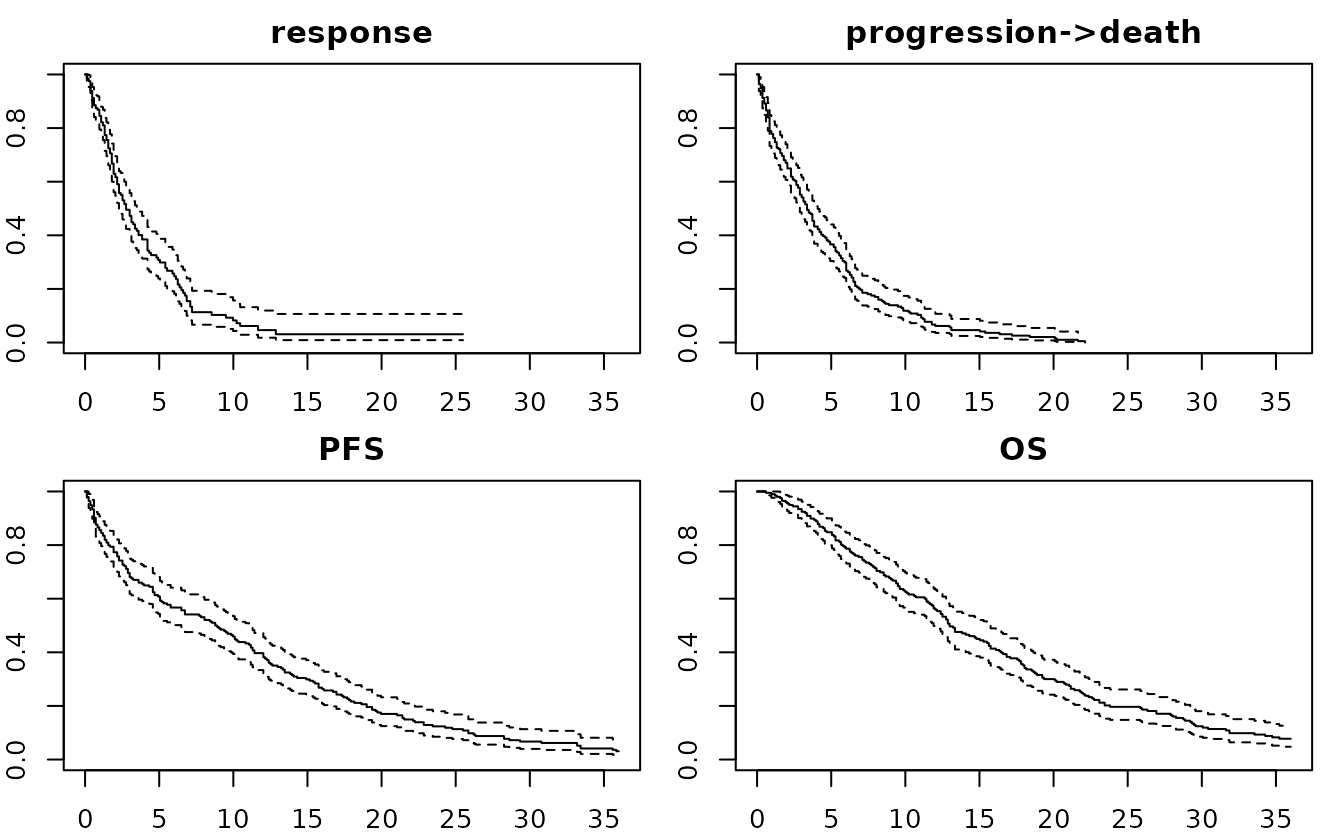
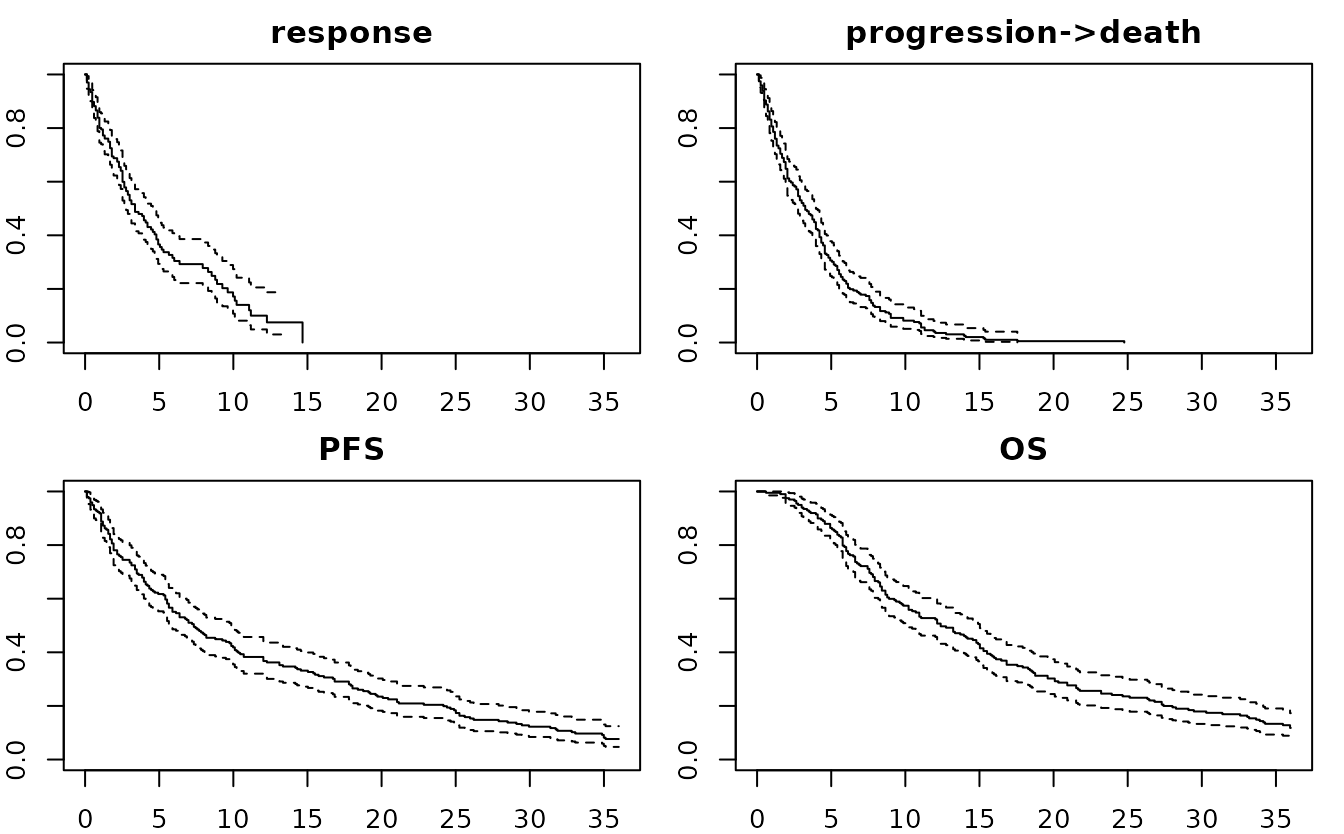
Deploying to gh-pages from @ Boehringer-Ingelheim/msmsimr@18a34706cb3151c5368cff20ae44e86f79afe270 🚀

diff --git a/articles/get-started.html b/articles/get-started.html
@@ -78,8 +78,8 @@
 <span></span>
 <span><span class="kw"><a href="https://rdrr.io/r/base/library.html" class="external-link">library</a></span><span class="op">(</span><span class="va">msmsimr</span><span class="op">)</span></span></code></pre></div>
 <p>Work In Progress!</p>
-<div id="htmlwidget-0bf49256549ca2828ade" style="width:700px;height:200px;" class="nomnoml html-widget "></div>
-<script type="application/json" data-for="htmlwidget-0bf49256549ca2828ade">{"x":{"code":"\n#fill: #FEFEFF\n#lineWidth: 1\n#zoom: 4\n#direction: right\n\n[<state>start]\n[start]-[<note>1]\n[1]->[<state>response]\n[start]-[<note>2]\n[2]->[<state>progression]\n[response]-[<note>3]\n[3]->[progression]\n[progression]-[<note>4]\n[4]->[<state>death]","svg":false,"png":null},"evals":[],"jsHooks":[]}</script><p>This model contains all states relevant to response rate, PFS, OS
+<div id="htmlwidget-364f495f89a88cb6bdfe" style="width:700px;height:200px;" class="nomnoml html-widget "></div>
+<script type="application/json" data-for="htmlwidget-364f495f89a88cb6bdfe">{"x":{"code":"\n#fill: #FEFEFF\n#lineWidth: 1\n#zoom: 4\n#direction: right\n\n[<state>start]\n[start]-[<note>1]\n[1]->[<state>response]\n[start]-[<note>2]\n[2]->[<state>progression]\n[response]-[<note>3]\n[3]->[progression]\n[progression]-[<note>4]\n[4]->[<state>death]","svg":false,"png":null},"evals":[],"jsHooks":[]}</script><p>This model contains all states relevant to response rate, PFS, OS
 (and duration of response). Assuming a low rate of direct transitions
 from start/response to death, the model does not include direct
 transitions from start/response to death to reduce complexity.</p>
@@ -117,20 +117,20 @@ heuristically.</p>
 <div class="sourceCode" id="cb3"><pre class="downlit sourceCode r">
 <code class="sourceCode R"><span><span class="va">tbl_data</span> <span class="op">&lt;-</span> <span class="fu"><a href="https://rdrr.io/r/stats/simulate.html" class="external-link">simulate</a></span><span class="op">(</span><span class="va">msm</span>, nsim <span class="op">=</span> <span class="fl">200</span><span class="op">)</span></span>
 <span><span class="va">tbl_data</span></span>
-<span><span class="co">#&gt; <span style="color: #949494;"># A tibble: 521 × 8</span></span></span>
+<span><span class="co">#&gt; <span style="color: #949494;"># A tibble: 513 × 8</span></span></span>
 <span><span class="co">#&gt;    id    Tstart  Tstop duration from        to          status trans</span></span>
 <span><span class="co">#&gt;    <span style="color: #949494; font-style: italic;">&lt;fct&gt;</span>  <span style="color: #949494; font-style: italic;">&lt;dbl&gt;</span>  <span style="color: #949494; font-style: italic;">&lt;dbl&gt;</span>    <span style="color: #949494; font-style: italic;">&lt;dbl&gt;</span> <span style="color: #949494; font-style: italic;">&lt;fct&gt;</span>       <span style="color: #949494; font-style: italic;">&lt;fct&gt;</span>        <span style="color: #949494; font-style: italic;">&lt;dbl&gt;</span> <span style="color: #949494; font-style: italic;">&lt;dbl&gt;</span></span></span>
-<span><span class="co">#&gt; <span style="color: #BCBCBC;"> 1</span> 2      0      0.120    0.120 start       progression      1     2</span></span>
-<span><span class="co">#&gt; <span style="color: #BCBCBC;"> 2</span> 2      0.120  0.601    0.481 progression death            1     4</span></span>
-<span><span class="co">#&gt; <span style="color: #BCBCBC;"> 3</span> 4      0      6.25     6.25  start       response         1     1</span></span>
-<span><span class="co">#&gt; <span style="color: #BCBCBC;"> 4</span> 4      6.25  28.3     22.0   response    progression      1     3</span></span>
-<span><span class="co">#&gt; <span style="color: #BCBCBC;"> 5</span> 4     28.3   29.2      0.962 progression death            1     4</span></span>
-<span><span class="co">#&gt; <span style="color: #BCBCBC;"> 6</span> 6      0      3.13     3.13  start       response         1     1</span></span>
-<span><span class="co">#&gt; <span style="color: #BCBCBC;"> 7</span> 6      3.13  17.0     13.8   response    progression      1     3</span></span>
-<span><span class="co">#&gt; <span style="color: #BCBCBC;"> 8</span> 6     17.0   20.8      3.85  progression death            1     4</span></span>
-<span><span class="co">#&gt; <span style="color: #BCBCBC;"> 9</span> 8      0      1.68     1.68  start       response         1     1</span></span>
-<span><span class="co">#&gt; <span style="color: #BCBCBC;">10</span> 8      1.68   6.73     5.05  response    progression      1     3</span></span>
-<span><span class="co">#&gt; <span style="color: #949494;"># … with 511 more rows</span></span></span></code></pre></div>
+<span><span class="co">#&gt; <span style="color: #BCBCBC;"> 1</span> 2      0      3.97     3.97  start       response         1     1</span></span>
+<span><span class="co">#&gt; <span style="color: #BCBCBC;"> 2</span> 2      3.97  13.1      9.14  response    progression      1     3</span></span>
+<span><span class="co">#&gt; <span style="color: #BCBCBC;"> 3</span> 2     13.1   16.0      2.89  progression death            1     4</span></span>
+<span><span class="co">#&gt; <span style="color: #BCBCBC;"> 4</span> 4      0      0.962    0.962 start       response         1     1</span></span>
+<span><span class="co">#&gt; <span style="color: #BCBCBC;"> 5</span> 4      0.962 24.2     23.2   response    progression      1     3</span></span>
+<span><span class="co">#&gt; <span style="color: #BCBCBC;"> 6</span> 4     24.2   36.2     12.0   progression death            1     4</span></span>
+<span><span class="co">#&gt; <span style="color: #BCBCBC;"> 7</span> 6      0      2.89     2.89  start       response         1     1</span></span>
+<span><span class="co">#&gt; <span style="color: #BCBCBC;"> 8</span> 6      2.89  25.6     22.7   response    progression      1     3</span></span>
+<span><span class="co">#&gt; <span style="color: #BCBCBC;"> 9</span> 6     25.6   27.3      1.68  progression death            1     4</span></span>
+<span><span class="co">#&gt; <span style="color: #BCBCBC;">10</span> 8      0     13.3     13.3   start       progression      1     2</span></span>
+<span><span class="co">#&gt; <span style="color: #949494;"># … with 503 more rows</span></span></span></code></pre></div>
 <p>These can be used to estimate time-to-first event for single or
 compound endpoints.</p>
 <div class="sourceCode" id="cb4"><pre class="downlit sourceCode r">
@@ -153,7 +153,7 @@ compound endpoints.</p>
 <div class="sourceCode" id="cb5"><pre class="downlit sourceCode r">
 <code class="sourceCode R"><span><span class="fu"><a href="../reference/next_state_probabilities.html">next_state_probabilities</a></span><span class="op">(</span><span class="va">msm</span>, <span class="va">tbl_data</span>, as_matrix <span class="op">=</span> <span class="cn">TRUE</span><span class="op">)</span></span>
 <span><span class="co">#&gt;             start response progression death</span></span>
-<span><span class="co">#&gt; start           0    0.665       0.335     0</span></span>
+<span><span class="co">#&gt; start           0    0.605       0.395     0</span></span>
 <span><span class="co">#&gt; response        0    0.000       1.000     0</span></span>
 <span><span class="co">#&gt; progression     0    0.000       0.000     1</span></span>
 <span><span class="co">#&gt; death           0    0.000       0.000     0</span></span></code></pre></div>
@@ -242,9 +242,9 @@ t-distributed.</p>
 <div class="sourceCode" id="cb10"><pre class="downlit sourceCode r">
 <code class="sourceCode R"><span><span class="va">lls</span> <span class="op">&lt;-</span> <span class="fu">purrr</span><span class="fu">::</span><span class="fu"><a href="https://purrr.tidyverse.org/reference/map.html" class="external-link">map_dbl</a></span><span class="op">(</span><span class="fl">1</span><span class="op">:</span><span class="fl">5</span>, <span class="op">~</span><span class="fu"><a href="../reference/log_likelihood.html">log_likelihood</a></span><span class="op">(</span><span class="va">msm</span>, <span class="va">cal1</span>, <span class="va">cal2</span>, <span class="va">cal3</span><span class="op">)</span><span class="op">)</span></span>
 <span><span class="fu"><a href="https://rdrr.io/r/base/mean.html" class="external-link">mean</a></span><span class="op">(</span><span class="va">lls</span><span class="op">)</span></span>
-<span><span class="co">#&gt; [1] -7.256332</span></span>
+<span><span class="co">#&gt; [1] -7.167642</span></span>
 <span><span class="fu"><a href="https://rdrr.io/r/stats/sd.html" class="external-link">sd</a></span><span class="op">(</span><span class="va">lls</span><span class="op">)</span> <span class="op">/</span> <span class="fu"><a href="https://rdrr.io/r/base/MathFun.html" class="external-link">sqrt</a></span><span class="op">(</span><span class="fl">5</span><span class="op">)</span> <span class="co"># not ideal - quite variable; bump nsim? needs to be faster</span></span>
-<span><span class="co">#&gt; [1] 0.009388182</span></span></code></pre></div>
+<span><span class="co">#&gt; [1] 0.004138826</span></span></code></pre></div>
 <p>This approximate likelihood can be optimized.</p>
 <p>First, need to make parameters tunable. PFS/OS and response rate
 alone are insufficient to identify all transitions, so assuming we have

diff --git a/reference/gradient_descent.html b/reference/gradient_descent.html
@@ -57,6 +57,10 @@
 <dd><p>function to optimize</p></dd>
 
 
+<dt>gr</dt>
+<dd><p>gradient</p></dd>
+
+
 <dt>init</dt>
 <dd><p>initial parameter variables</p></dd>
 
@@ -67,10 +71,6 @@
 
 <dt>niter</dt>
 <dd><p>number of iteration</p></dd>
-
-
-<dt>gn</dt>
-<dd><p>gradient</p></dd>
 
 </dl></div>
 
